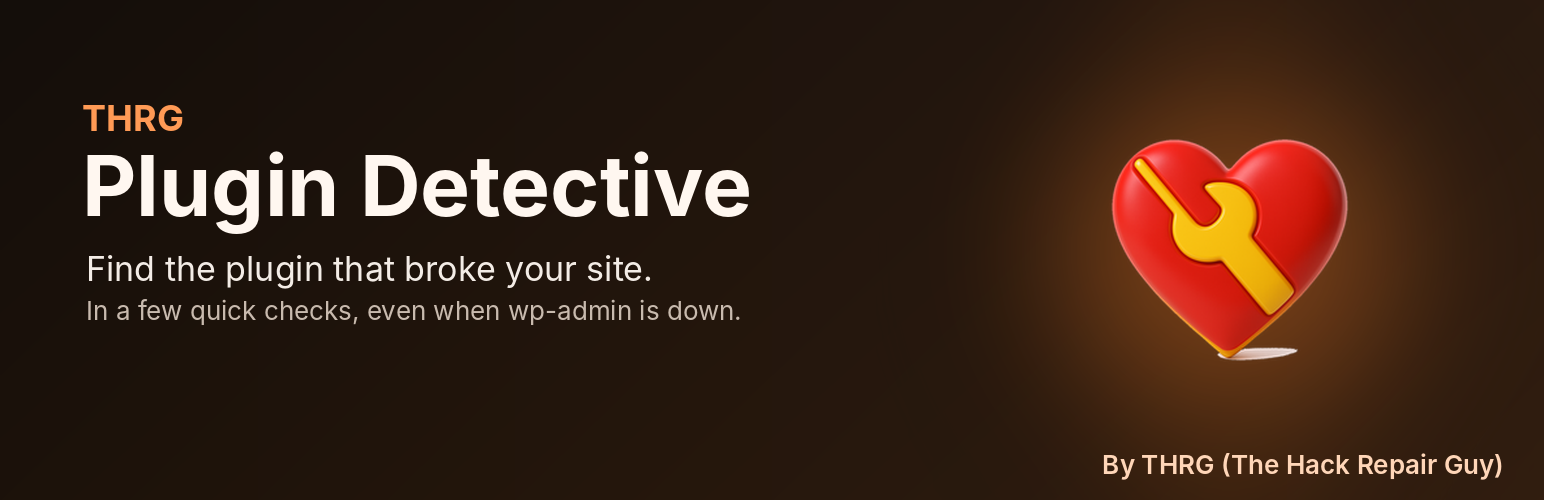
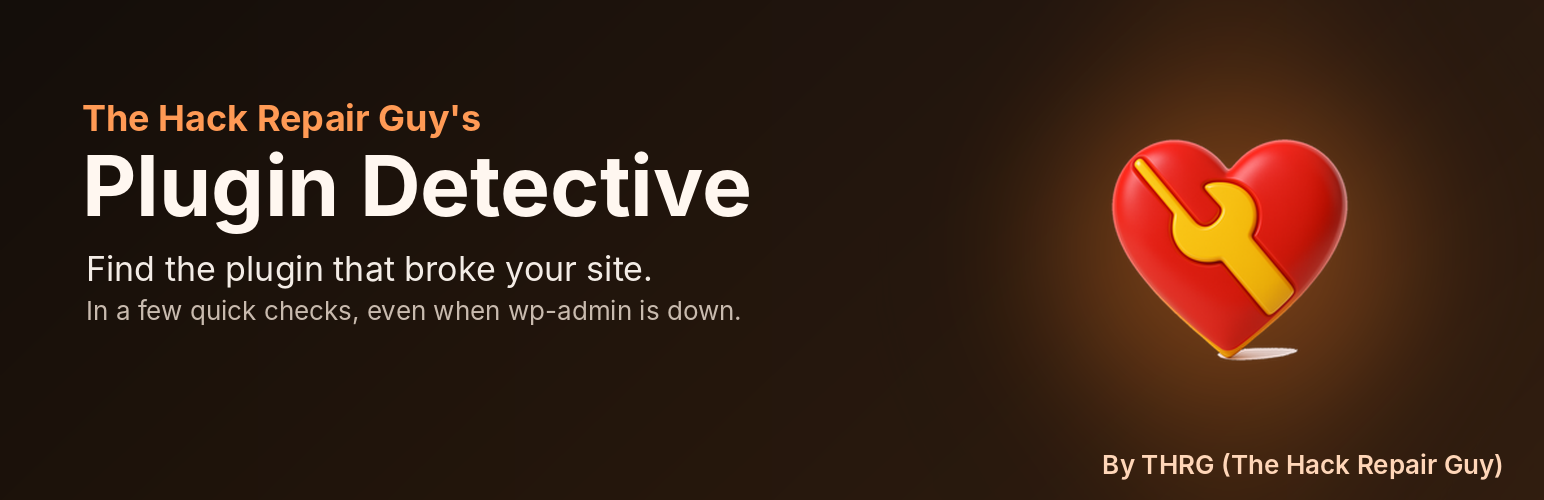
Rename to The Hack Repair Guy's Plugin Detective

Changed region(s): [[0.0622, 0.21, 0.3109, 0.27]]

diff --git a/docs/index.html b/docs/index.html
@@ -3,10 +3,10 @@
 <head>
 <meta charset="utf-8">
 <meta name="viewport" content="width=device-width, initial-scale=1">
-<title>THRG Plugin Detective: find the plugin that broke your site</title>
+<title>The Hack Repair Guy's Plugin Detective: find the plugin that broke your site</title>
 <meta name="description" content="Find the plugin that broke your WordPress site in a few quick checks, even when wp-admin is down. By THRG (The Hack Repair Guy).">
 <link rel="icon" href="img/hackrepair-heart-64.png">
-<meta property="og:title" content="THRG Plugin Detective">
+<meta property="og:title" content="The Hack Repair Guy's Plugin Detective">
 <meta property="og:description" content="Find the plugin that broke your site in a few quick checks, even when wp-admin is down.">
 <meta property="og:image" content="img/hackrepair-heart.png">
 <style>
@@ -71,7 +71,7 @@ footer{border-top:1px solid var(--border);padding:26px 0 44px;color:var(--muted)
 <body>
 <div class="wrap">
   <header class="top">
-    <a class="brand" href="#top"><img src="img/hackrepair-heart-64.png" alt="">THRG Plugin Detective</a>
+    <a class="brand" href="#top"><img src="img/hackrepair-heart-64.png" alt="">The Hack Repair Guy's Plugin Detective</a>
     <nav aria-label="Page"><a href="#how">How it works</a><a href="#safe">Safety</a><a href="#install">Install</a><a href="#faq">FAQ</a></nav>
   </header>
 
@@ -172,7 +172,7 @@ footer{border-top:1px solid var(--border);padding:26px 0 44px;color:var(--muted)
   </main>
 
   <footer>
-    <p>THRG Plugin Detective &middot; By Jim Walker, The Hack Repair Guy &middot; <a href="https://hackrepair.com/">hackrepair.com</a> &middot; GPLv2 or later</p>
+    <p>The Hack Repair Guy's Plugin Detective &middot; By Jim Walker, The Hack Repair Guy &middot; <a href="https://hackrepair.com/">hackrepair.com</a> &middot; GPLv2 or later</p>
     <p><a href="https://github.com/hackrepair/hackrepair-plugin-detective">GitHub</a> &middot; <a href="https://github.com/hackrepair/hackrepair-plugin-detective/releases">Releases</a> &middot; <a href="https://hackrepair.com/donations/buy-jim-a-coffee">Buy Jim a coffee</a></p>
   </footer>
 </div>

diff --git a/assets/css/admin.css b/assets/css/admin.css
@@ -1,4 +1,4 @@
-/* THRG Plugin Detective admin screen.
+/* The Hack Repair Guy's Plugin Detective admin screen.
  * Follows the HackRepair Post Update Email Notifier admin style. */
 .hrpd-wrap{--hrpd-accent:#b34700;--hrpd-accent2:#e53935;--hrpd-bg:#fff7f0;--hrpd-card:#fff;--hrpd-border:#ffd7b3;--hrpd-muted:#50575e;max-width:1000px;padding-bottom:40px}
 .hrpd-head{display:flex;align-items:center;gap:14px;margin:12px 0 18px}

diff --git a/troubleshoot/assets/app.js b/troubleshoot/assets/app.js
@@ -1,5 +1,5 @@
 /**
- * THRG Plugin Detective troubleshooter.
+ * The Hack Repair Guy's Plugin Detective troubleshooter.
  *
  * Plain JavaScript, no build step, no outside libraries. All text comes from
  * the server (translatable). Site data is only ever inserted as text, never

diff --git a/troubleshoot/assets/app.css b/troubleshoot/assets/app.css
@@ -1,4 +1,4 @@
-/* THRG Plugin Detective troubleshooter.
+/* The Hack Repair Guy's Plugin Detective troubleshooter.
  * Self-contained: runs outside wp-admin, no external fonts or icons.
  * Tokens follow the HackRepair Post Update Email Notifier admin style. */
 :root {

diff --git a/includes/class-hrpd-updater.php b/includes/class-hrpd-updater.php
@@ -176,7 +176,7 @@ final class HRPD_Updater {
 
 		$info = new \stdClass();
 
-		$info->name         = 'THRG Plugin Detective';
+		$info->name         = "The Hack Repair Guy's Plugin Detective";
 		$info->slug         = 'hackrepair-plugin-detective';
 		$info->version      = HRPD_VERSION;
 		$info->author       = '<a href="https://hackrepair.com/">Jim Walker, The Hack Repair Guy</a>';

diff --git a/hackrepair-plugin-detective.php b/hackrepair-plugin-detective.php
@@ -1,6 +1,6 @@
 <?php
 /**
- * Plugin Name:       THRG Plugin Detective
+ * Plugin Name:       The Hack Repair Guy's Plugin Detective
  * Plugin URI:        https://hackrepair.com/
  * Description:       Find the plugin that broke your site in a few quick checks, even when wp-admin is down. Clears stuck maintenance mode too. By THRG (The Hack Repair Guy).
  * Version:           2.2.0

diff --git a/README.md b/README.md
@@ -1,8 +1,8 @@
 <p align="center">
-  <img src="assets/img/hackrepair-heart.png" alt="THRG Plugin Detective" width="120" height="120">
+  <img src="assets/img/hackrepair-heart.png" alt="The Hack Repair Guy's Plugin Detective" width="120" height="120">
 </p>
 
-<h1 align="center">THRG Plugin Detective</h1>
+<h1 align="center">The Hack Repair Guy's Plugin Detective</h1>
 
 <p align="center">
   <strong>Find the plugin that broke your site in a few quick checks, even when wp-admin is down.</strong><br>
@@ -247,7 +247,7 @@ PHP 7.4 lint and PHPCS (WordPress + PHPCompatibilityWP) were clean on 2.1.0 and 
 
 ## Credit
 
-The idea for THRG Plugin Detective came from [Plugin Detective – Troubleshooting Conflicts](https://wordpress.org/plugins/plugin-detective/) by NSquared. Thank you to Natalie MacLees and team for showing how handy a guided, halving search can be.
+The idea for The Hack Repair Guy's Plugin Detective came from [Plugin Detective – Troubleshooting Conflicts](https://wordpress.org/plugins/plugin-detective/) by NSquared. Thank you to Natalie MacLees and team for showing how handy a guided, halving search can be.
 
 This is an independent rebuild with new code, design, and copy, and it isn't affiliated with or endorsed by NSquared. What it adds:
 
